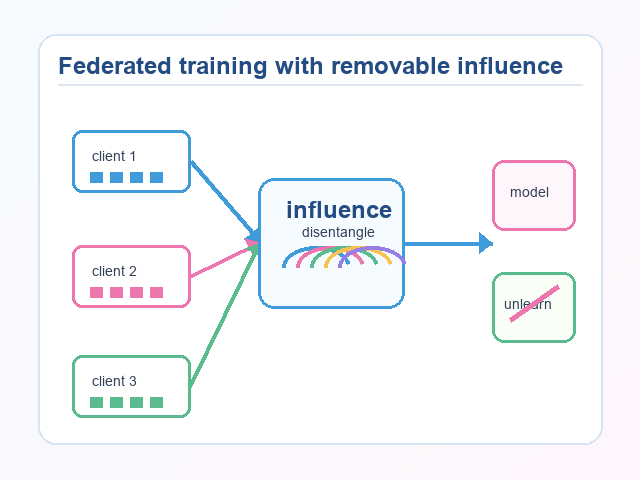
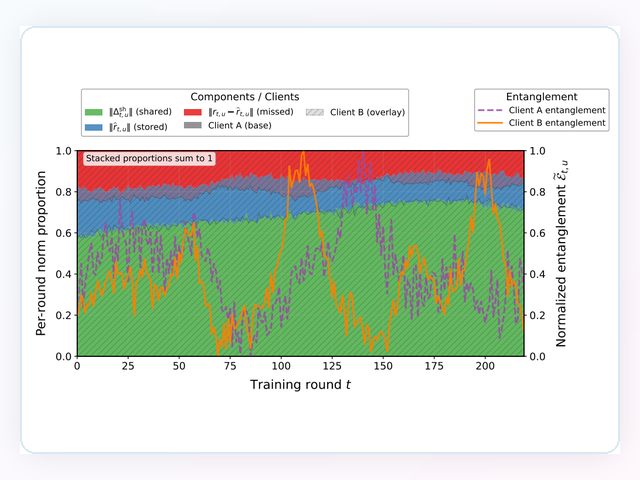
Update ICML selected publications

diff --git a/index.html b/index.html
@@ -980,6 +980,23 @@
 
           <li class="publication">
             <div class="pub-preview">
+              <span class="venue">ICML 2026</span>
+              <img class="pub-figure" src="assets/publications/icml-rate-distortion.png" alt="Figure preview for In-Context Learning as Rate-Distortion Optimization" loading="lazy">
+            </div>
+            <div>
+              <p class="paper-title">
+                <a href="https://icml.cc/virtual/2026/poster/62151">In-Context Learning as Rate&ndash;Distortion Optimization</a>
+                <span class="ccf-tag ccf-a">CCF-A</span>
+                <span class="presentation-tag poster">Poster</span>
+              </p>
+              <p class="authors">J Zhang, C Li, <span class="me">C Xiao</span><span class="corresponding">*</span></p>
+              <p class="booktitle">Forty-third International Conference on Machine Learning (ICML 2026)</p>
+              <p class="paper-highlight">Highlight: studies how context data can be compressed and selected to improve foundation-model inference.</p>
+            </div>
+          </li>
+
+          <li class="publication">
+            <div class="pub-preview">
               <span class="venue">ECCV 2026</span>
               <img class="pub-figure" src="assets/publications/eccv-routing.png" alt="Figure preview for Interference-Aware Continual Vision-Language Learning" loading="lazy">
             </div>